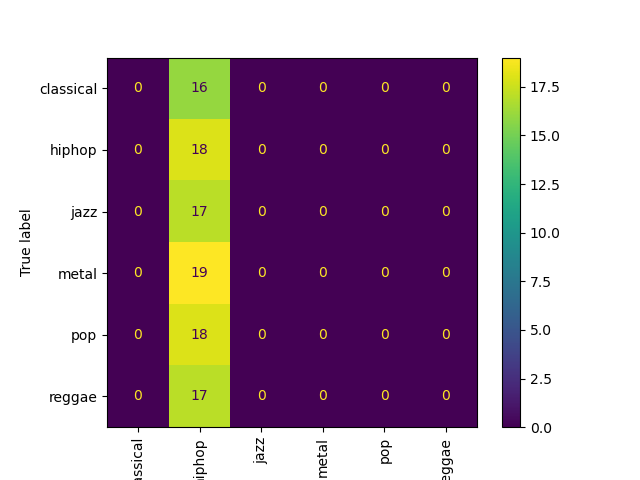
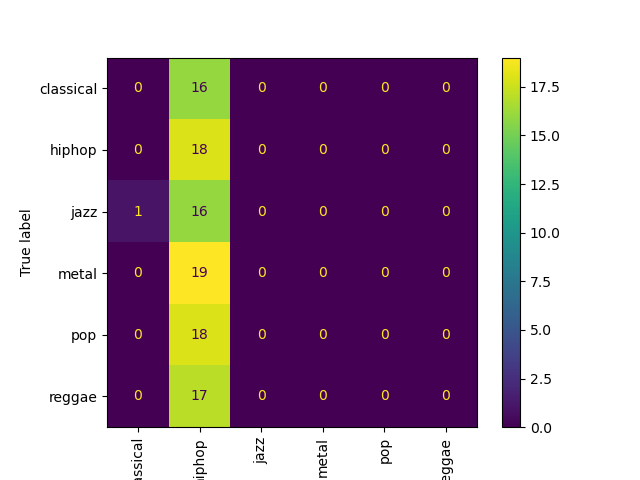
rnn proves

Changed region(s): [[0.25, 0.375, 0.375, 0.5312]]

diff --git a/LSTM-Music-Genre-Classification-master/LSTM-Music-Genre-Classification-master/GRU.py b/LSTM-Music-Genre-Classification-master/LSTM-Music-Genre-Classification-master/GRU.py
@@ -164,6 +164,27 @@ def main():
     #     if "bias" in name:
     #         nn.init.zeros_(w.data) 
 
+    for name, w in model.named_parameters():
+        if 'lstm' in name:
+            if 'weight_ih' in name:
+                nn.init.xavier_uniform_(w.data)
+
+            elif 'weight_hh' in name:
+                nn.init.orthogonal_(w.data)
+
+            elif 'bias_ih' in name:
+                nn.init.zeros_(w.data) 
+
+            elif 'bias_hh' in name:
+                nn.init.zeros_(w.data) 
+
+        elif 'linear' in name:
+            if 'weight' in name:
+                nn.init.xavier_uniform_(w.data)
+
+            elif 'bias' in name:
+                nn.init.zeros_(w.data)
+
     for epoch in range(num_epochs):
 
         train_running_loss, train_acc = 0.0, 0.0
